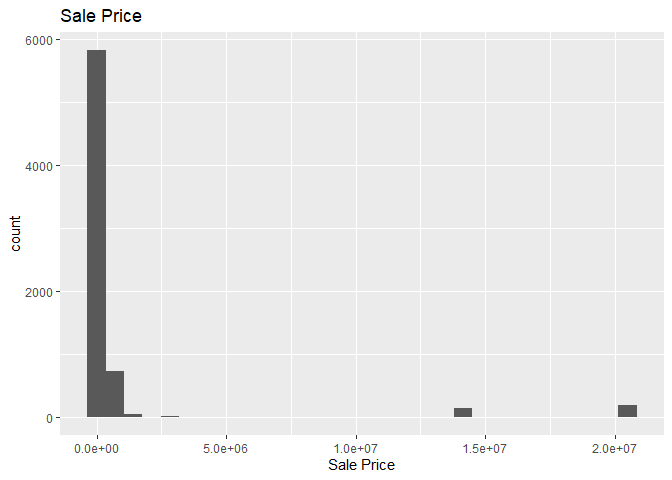
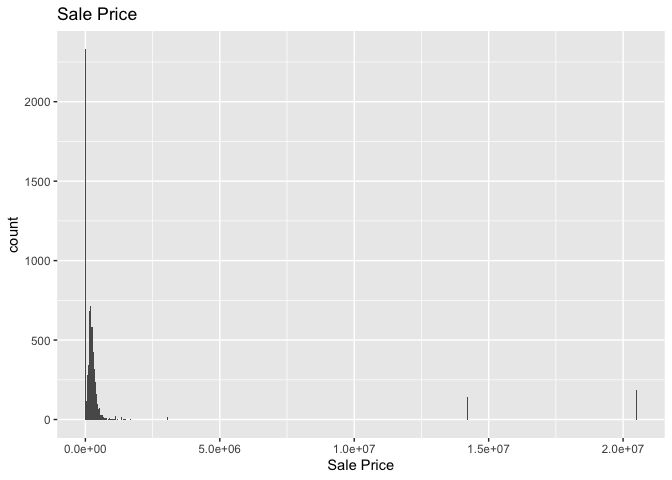
12

diff --git a/README.md b/README.md
@@ -17,9 +17,9 @@ grading once the due date is passed. Submit a link to your repository on
 Canvas (only one submission per team) to signal to the instructors that
 you are done with your submission.
 
-*Step 1: Inspect the first few lines of the data set:*
+\#Step 1: Inspect the first few lines of the data set:
 
-*what variables are there?*
+\#what variables are there?\*
 
 ``` r
 names(ames)
@@ -32,22 +32,94 @@ names(ames)
     ## [13] "LotArea(sf)"           "AC"                    "FirePlace"            
     ## [16] "Neighborhood"
 
+\#Of what type are the variables?\*
+
+``` r
+sapply(ames, class)
+```
+
+    ##             Parcel ID               Address                 Style 
+    ##           "character"           "character"              "factor" 
+    ##             Occupancy             Sale Date            Sale Price 
+    ##              "factor"                "Date"             "numeric" 
+    ##            Multi Sale             YearBuilt                 Acres 
+    ##           "character"             "numeric"             "numeric" 
+    ##  TotalLivingArea (sf)              Bedrooms FinishedBsmtArea (sf) 
+    ##             "numeric"             "numeric"             "numeric" 
+    ##           LotArea(sf)                    AC             FirePlace 
+    ##             "numeric"           "character"           "character" 
+    ##          Neighborhood 
+    ##              "factor"
+
+\#What does each variable mean?\*
+
+\#What do we expect their data range to be?\*
+
+``` r
+summary(ames, na.rm = TRUE)
+```
+
+    ##   Parcel ID           Address                        Style     
+    ##  Length:6935        Length:6935        1 Story Frame    :3732  
+    ##  Class :character   Class :character   2 Story Frame    :1456  
+    ##  Mode  :character   Mode  :character   1 1/2 Story Frame: 711  
+    ##                                        Split Level Frame: 215  
+    ##                                        Split Foyer Frame: 156  
+    ##                                        (Other)          : 218  
+    ##                                        NA's             : 447  
+    ##                           Occupancy      Sale Date            Sale Price      
+    ##  Condominium                   : 711   Min.   :2017-07-03   Min.   :       0  
+    ##  Single-Family / Owner Occupied:4711   1st Qu.:2019-03-27   1st Qu.:       0  
+    ##  Townhouse                     : 745   Median :2020-09-22   Median :  170900  
+    ##  Two-Family Conversion         : 139   Mean   :2020-06-14   Mean   : 1017479  
+    ##  Two-Family Duplex             : 182   3rd Qu.:2021-10-14   3rd Qu.:  280000  
+    ##  NA's                          : 447   Max.   :2022-08-31   Max.   :20500000  
+    ##                                                                               
+    ##   Multi Sale          YearBuilt        Acres         TotalLivingArea (sf)
+    ##  Length:6935        Min.   :   0   Min.   : 0.0000   Min.   :   0        
+    ##  Class :character   1st Qu.:1956   1st Qu.: 0.1502   1st Qu.:1095        
+    ##  Mode  :character   Median :1978   Median : 0.2200   Median :1460        
+    ##                     Mean   :1976   Mean   : 0.2631   Mean   :1507        
+    ##                     3rd Qu.:2002   3rd Qu.: 0.2770   3rd Qu.:1792        
+    ##                     Max.   :2022   Max.   :12.0120   Max.   :6007        
+    ##                     NA's   :447    NA's   :89        NA's   :447         
+    ##     Bedrooms      FinishedBsmtArea (sf)  LotArea(sf)          AC           
+    ##  Min.   : 0.000   Min.   :  10.0        Min.   :     0   Length:6935       
+    ##  1st Qu.: 3.000   1st Qu.: 474.0        1st Qu.:  6553   Class :character  
+    ##  Median : 3.000   Median : 727.0        Median :  9575   Mode  :character  
+    ##  Mean   : 3.299   Mean   : 776.7        Mean   : 11466                     
+    ##  3rd Qu.: 4.000   3rd Qu.:1011.0        3rd Qu.: 12088                     
+    ##  Max.   :10.000   Max.   :6496.0        Max.   :523228                     
+    ##  NA's   :447      NA's   :2682          NA's   :89                         
+    ##   FirePlace                            Neighborhood 
+    ##  Length:6935        (27) Res: N Ames         : 854  
+    ##  Class :character   (37) Res: College Creek  : 652  
+    ##  Mode  :character   (57) Res: Investor Owned : 474  
+    ##                     (29) Res: Old Town       : 469  
+    ##                     (34) Res: Edwards        : 444  
+    ##                     (19) Res: North Ridge Hei: 420  
+    ##                     (Other)                  :3622
+
+# Step 2, Is there a variable of special interest or focus?
+
+Sale Price is the variable of interest
+
 ``` r
 ## 2) is there a variable of special interest or focus?
 
 ## Sale Price is the variable of special interest.
 ```
 
+\#Step 3,
+
 ``` r
 ## 3)
 ggplot(ames, aes(x = `Sale Price`)) + 
-  geom_histogram() +
+  geom_histogram(bins = 500) +
   ggtitle("Sale Price")
 ```
 
-    ## `stat_bin()` using `bins = 30`. Pick better value with `binwidth`.
-
-![](README_files/figure-gfm/unnamed-chunk-4-1.png)<!-- -->
+![](README_files/figure-gfm/unnamed-chunk-6-1.png)<!-- -->
 
 ``` r
 ## 4) Range = 20500000
@@ -57,7 +129,7 @@ ggplot(data = ames, aes(x = Style, fill = Style)) +
   coord_flip()
 ```
 
-![](README_files/figure-gfm/unnamed-chunk-5-1.png)<!-- -->
+![](README_files/figure-gfm/unnamed-chunk-7-1.png)<!-- -->
 
 ``` r
   labs(title = "Bar Chart of Sale Price by Style",
@@ -77,7 +149,7 @@ ggplot(data = ames, aes(x = Style, fill = Style)) +
     ## attr(,"class")
     ## [1] "labels"
 
-*Of what type are the variables?*
+\<\<\<\<\<\<\< HEAD *Of what type are the variables?*
 
 \#Step 1: Inspect the first few lines of the data set:
 
@@ -116,7 +188,17 @@ sapply(ames, class)
 \#What does each variable mean?\*
 
 Simply running the summary of the data set gives up all the column names
-and what
+and what \<\<\<\<\<\<\< HEAD
+
+``` r
+ggplot(ames, aes(x = Bedrooms)) + geom_histogram(binwidth = 1)
+```
+
+    ## Warning: Removed 447 rows containing non-finite values (`stat_bin()`).
+
+![](README_files/figure-gfm/unnamed-chunk-10-1.png)<!-- -->
+
+=======
 
 \#What do we expect their data range to be?\*
 
@@ -164,3 +246,7 @@ summary(ames, na.rm = FALSE)
     ##                     (34) Res: Edwards        : 444  
     ##                     (19) Res: North Ridge Hei: 420  
     ##                     (Other)                  :3622
+
+# \>\>\>\>\>\>\> 68c1bf7221fac39b2715051b25455812035db075
+
+> > > > > > > af530895bdfb5be4df188f36a2a46fd0d9cd5eda
